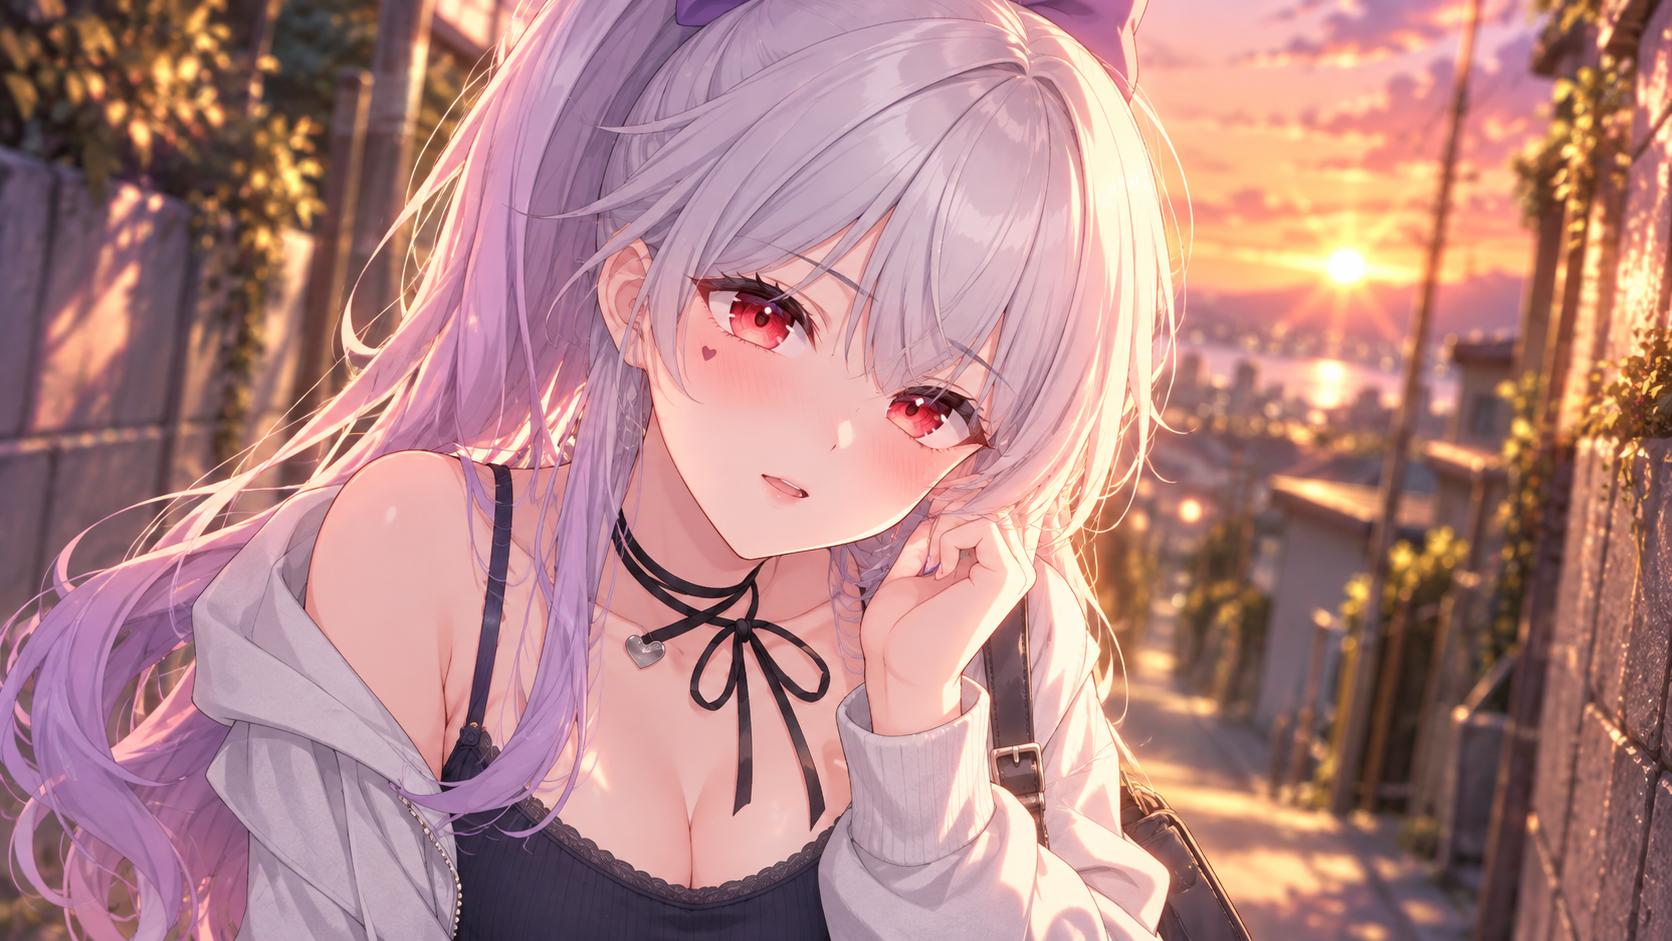
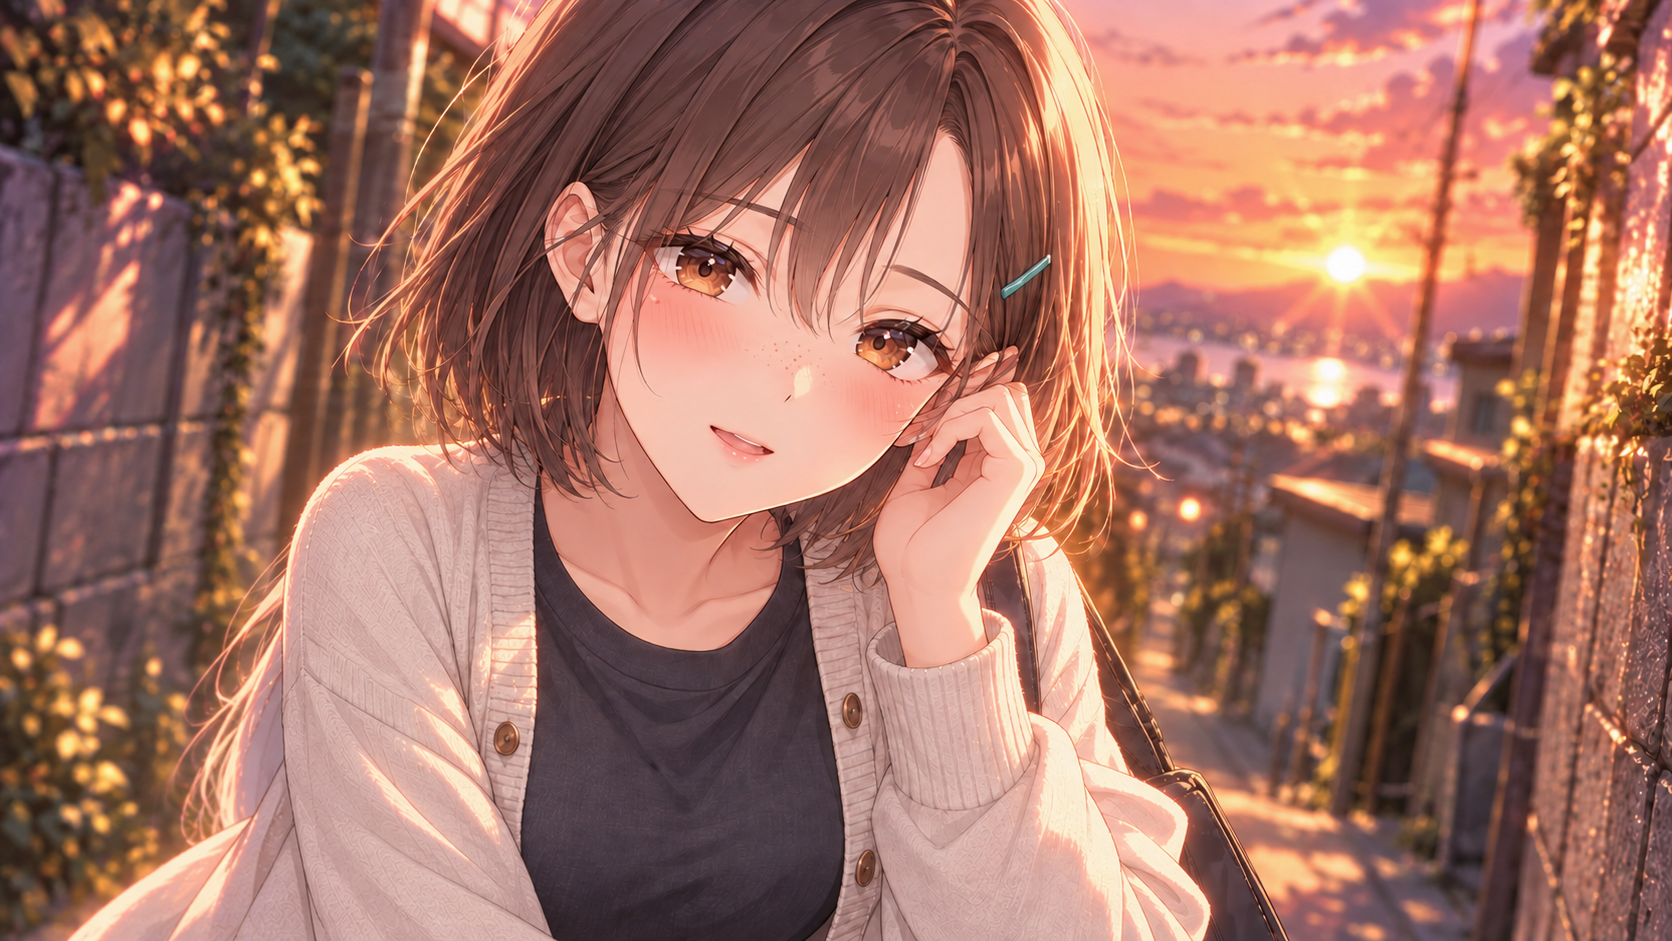
CH13 첫 데이트 CG 어깨선 조정

diff --git a/docs/illustration-replacement-prompts.md b/docs/illustration-replacement-prompts.md
@@ -11,7 +11,7 @@
 - 스탠딩 표정 번호는 엔진 기준으로 1 차분, 2 미소, 3 놀람, 4 수줍음, 5 걱정, 6 새침함이다.
 - CG 장면명과 연결은 js/game-data.js의 챕터·의상·학년 전환·엔딩 매핑과 대조했다.
 
-현재 그림에는 은빛 또는 연보라색 긴 머리와 높은 포니테일, 큰 보라색 리본, 붉은 눈, 일부 그림의 하트 모양 볼 점·둥근 안경이 반복된다. 이 문서의 새 주인공 기준은 이 시각 조합을 가져오지 않는다. 기존 파일은 장면의 서사 기능과 계절·의상 종류를 파악하는 용도로만 참고하고, 얼굴·헤어 실루엣·포즈·화면 배치를 따라 그리거나 이미지 입력으로 복제하지 않는다.
+현재 그림에는 은빛 또는 연보라색 긴 머리와 높은 포니테일, 큰 보라색 리본, 붉은 눈, 일부 그림의 하트 모양 볼 점·둥근 안경이 반복된다. 이 문서의 새 주인공 기준은 이 시각 조합을 가져오지 않는다. 기존 파일은 장면의 서사 기능과 계절·의상 종류를 확인하고 원본의 구도·카메라·자세·소품 배치를 최대한 유지하는 참고로 사용한다. 기존 캐릭터의 얼굴·헤어 실루엣·고유 장식은 가져오거나 트레이싱하지 않는다. 이미지 입력도 구도와 자세 참고에만 사용하고, 새 캐릭터 기준 이미지는 외형 일관성에만 사용한다.
 
 ## 프롬프트 조립 방법
 
@@ -245,7 +245,7 @@ CG는 공통 CG 블록과 파일별 장면 프롬프트를 이어 붙인다. 무
 | [cg-12.png](../assets/cg/cg-12.png) · CH11 방학 계획 | 원본의 구도와 자세를 유지한다. 책상 뒤 중앙에 앉은 온이유가 오른쪽 팔꿈치를 책상에 대고 손으로 뺨을 받치며, 왼손으로 화면 왼쪽 어깨 옆에 펼친 접이식 부채를 든다. 책상은 화면 아래 전체를 가로지르고 중앙 아래에 스케치북, 오른쪽 아래에 책 더미와 잘린 전경 필통을 둔다. 맨 오른쪽 가장자리에는 크게 잘린 탁상용 선풍기와 물병을 배치한다. 왼쪽 배경에는 칠판, 뒤에는 책상과 의자, 오른쪽 위에는 열린 창과 여름 하늘을 둔다. 새 캐릭터 외형과 교복을 적용하고 칠판·종이·물병에 읽을 수 있는 글자·로고를 넣지 않는다. |
 | [cg-13-1.png](../assets/cg/cg-13-1.png) · CH12 우연한 만남, 기본 의상 | 원본의 구도와 자세를 유지한다. 허리 위로 보이는 온이유를 왼쪽 절반에 두고, 몸을 오른쪽으로 살짝 돌린 채 밝은 표정으로 화면을 바라본다. 가방끈을 어깨에 걸고 양손으로 중앙 오른쪽의 큰 잡지를 비스듬히 들어 보여주며, 한쪽 검지는 표지를 가리킨다. 머리 옆의 작은 강조선을 살린다. 왼쪽 배경은 흐린 서가, 오른쪽은 게임 잡지와 진열 케이스가 빽빽한 매대로 구성한다. 새 캐릭터 외형과 흰 티셔츠·데님 하의를 적용하고, 표지와 상품에는 글자·로고·인물 초상 없이 가상의 풍경 그래픽만 넣는다. |
 | [cg-13-2.png](../assets/cg/cg-13-2.png) · CH12 우연한 만남, 꾸민 의상 | 원본의 구도와 자세를 유지한다. 허리 위로 보이는 온이유를 화면 왼쪽 절반에 크게 두고, 몸을 오른쪽으로 살짝 돌린 채 밝은 표정으로 바라본다. 중앙 오른쪽에는 크게 비스듬히 세운 잡지를 두고 양손으로 받친다. 한 손은 잡지의 왼쪽 아래를 받치며 표지를 가리키고, 다른 손은 오른쪽 가장자리를 잡는다. 화면 아래 왼쪽에는 은색 체인 장식이 달린 검정 가방을 둔다. 왼쪽은 흐린 서가, 오른쪽은 게임 잡지와 진열 케이스가 빽빽한 매대인 서점 배경을 유지한다. 새 캐릭터 외형에 짧은 검정 데님 재킷과 단정한 검정 상의를 적용한다. 잡지 표지에는 인물이나 읽을 수 있는 글자·로고 없이 가상의 풍경 그래픽만 넣는다. |
-| [cg-14-1.png](../assets/cg/cg-14-1.png) · CH13 첫 데이트, 기본 의상 | 첫 데이트의 해질녘 거리, 편안한 캐주얼 옷차림의 온이유가 따뜻한 가로등 아래 잠깐 걸음을 멈추고 상대를 바라본다. 설렘과 긴장이 섞인 작은 미소, 배경에는 부드러운 보케 조명. |
+| [cg-14-1.png](../assets/cg/cg-14-1.png) · CH13 첫 데이트, 기본 의상 | 원본의 구도와 자세를 유지한다. 해질녘 산책길을 배경으로 온이유의 얼굴과 상체를 화면 왼쪽과 중앙에 크게 담는 근접 시점을 쓴다. 상체는 카메라 쪽으로 살짝 기울고 어깨는 비스듬히 돌리며, 고개를 살짝 기울여 카메라를 바라본다. 한쪽 팔꿈치를 굽혀 손을 관자놀이 옆에 가볍게 대고, 수줍고 따뜻한 미소와 옅은 홍조를 보인다. 오른쪽에는 난간을 따라 멀어지는 산책길과 낮은 주황빛 해, 왼쪽에는 흐릿한 나무와 노을 보케를 둔다. 새 캐릭터 외형에 몸에 자연스럽게 맞는 연베이지 가디건과 불투명한 차콜색 크루넥 상의를 입힌다. 어깨와 가슴을 드러내지 않고, 손가락은 서로 분리된 자연스러운 형태로 표현한다. |
 | [cg-14-2.png](../assets/cg/cg-14-2.png) · CH13 첫 데이트, 꾸민 의상 | 크림색 니트와 단정한 스커트 차림의 온이유가 봄 저녁 산책길에서 수줍게 웃는다. 같은 첫 데이트 감정선을 유지하되 포즈와 카메라 구도는 독립적으로 만든다. |
 | [cg-15.png](../assets/cg/cg-15.png) · CH14 축제 준비 | 가을 저녁 학교 미술 전시 부스 준비 현장, 교복 차림의 온이유가 캔버스와 전시물을 정리하다 잠시 작품을 바라본다. 아직 한산한 축제 공간에 따뜻한 전구가 켜지기 시작한다. |
 | [cg-16.png](../assets/cg/cg-16.png) · CH15 축제 당일 | 학교 축제의 미술 전시 공간, 온이유가 방문객에게 작품을 소개하고 고개를 살짝 숙여 인사한다. 주변에는 그림과 관람객의 흐릿한 실루엣, 축제 조명이 밝고 생기 있게 번진다. |
@@ -272,9 +272,9 @@ CG는 공통 CG 블록과 파일별 장면 프롬프트를 이어 붙인다. 무
 - 동일 인물의 머리 길이·밤색·호박색 눈·청록 실핀 위치가 모든 파일에서 유지되는지 확인한다.
 - 스탠딩은 투명 배경을 사용하고, 같은 의상 세트 안에서 캔버스 비율·인물 크기·카메라 높이를 통일하며 손과 얼굴의 정상적인 형태를 확인한다.
 - 게임이 읽는 6개 표정의 감정이 서로 구분되는지 확인한다.
-- CG 교체 전 원본을 확인하고, 별도 요청이 없으면 인물 위치·카메라 시점·몸 방향·자세·손동작·소품 배치·배경 구조를 원본과 최대한 맞춘다.
+- CG 교체 전 원본을 확인하고 인물 위치·카메라 시점·몸 방향·자세·손동작·소품 배치·배경 구조를 원본과 최대한 맞춘다.
 - CG는 16:9 가로 구도이며 챕터의 서사 장면과 맞는지 확인한다.
 - 이미지 모델이 만든 문자·로고·워터마크는 제거하고, 필요한 문구는 별도로 편집한다.
 - 인물 외형 참조에는 승인된 공통 캐릭터 기준 이미지만 사용한다. 사용자가 특정 의상 참고 이미지를 제공한 경우에는 지정된 의상 형태만 참고하고 얼굴·머리·포즈·배경은 복사하지 않는다. 결과가 새 공통 캐릭터 기준과 다르면 해당 파일을 다시 생성한다.
 
-이 문서는 교체 대상의 프롬프트와 파일 대응표다. S·W·G·A·C1·P1·C13·P13·C16·P16·C24·P24·GR 스탠딩 세트와 타이틀 표지, cg-01~cg-12 및 cg-13-1~cg-13-2의 생성·교체를 완료했으며, 나머지 CG는 한 장씩 진행한다.
+이 문서는 교체 대상의 프롬프트와 파일 대응표다. S·W·G·A·C1·P1·C13·P13·C16·P16·C24·P24·GR 스탠딩 세트와 타이틀 표지, cg-01~cg-12, cg-13-1~cg-13-2 및 cg-14-1의 생성·교체를 완료했으며, 나머지 CG는 한 장씩 진행한다.
